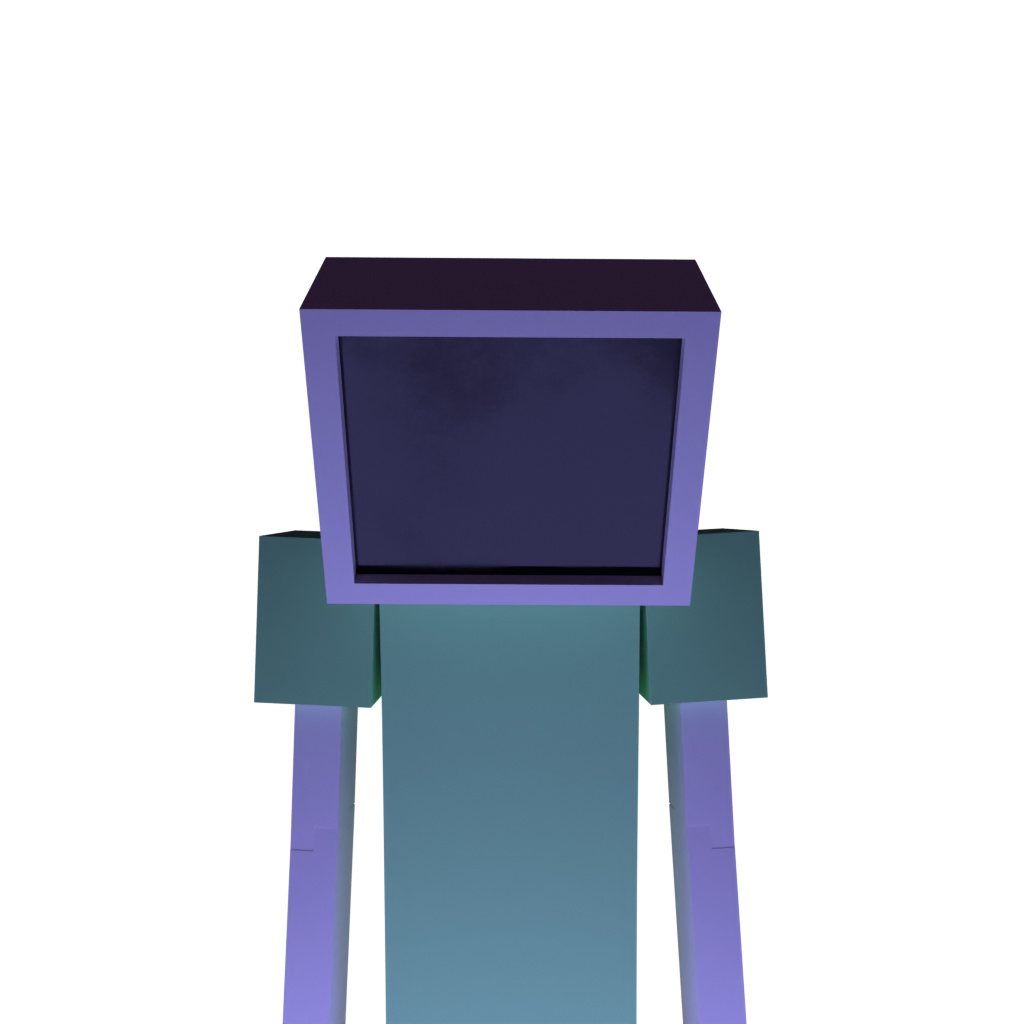
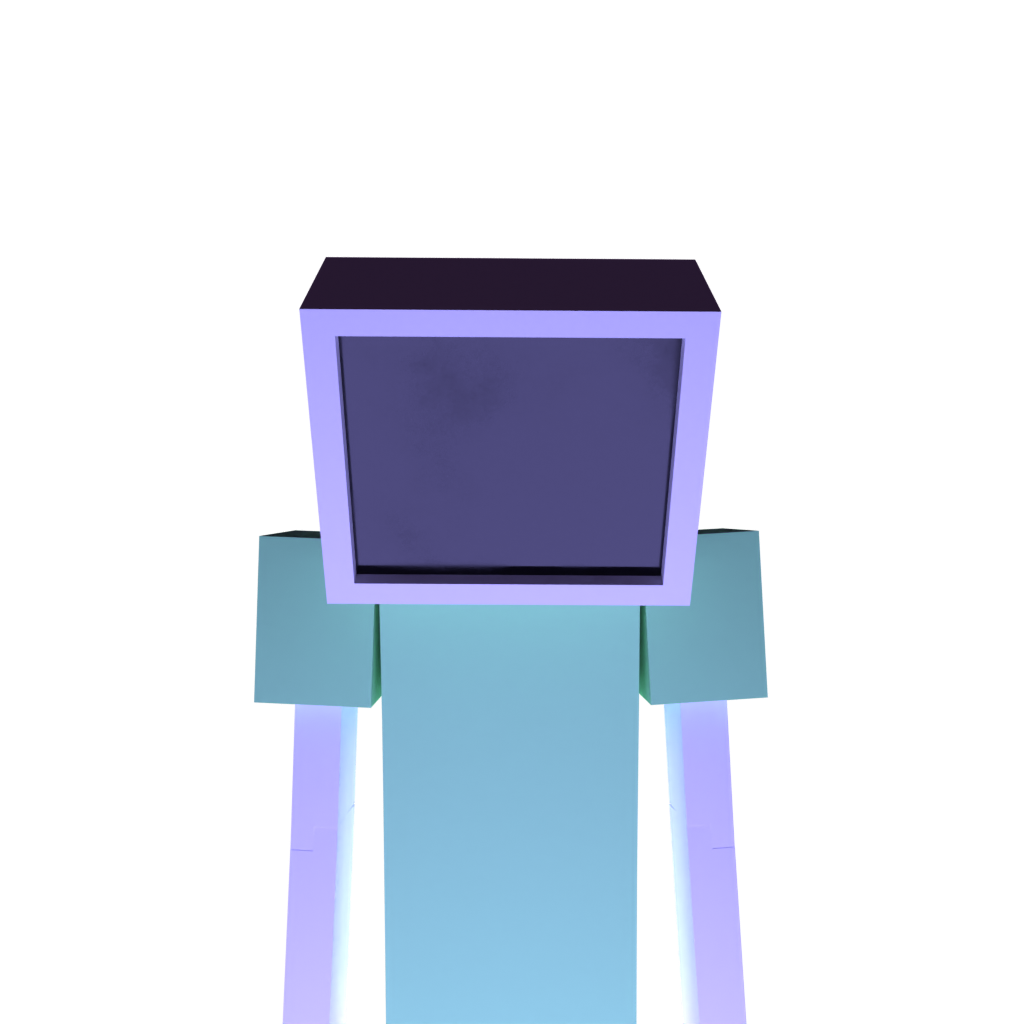
Tweaks on EpicSection Removed some temp images for Gallery

Changed region(s): [[0.25, 0.2812, 0.75, 1.0]]

diff --git a/src/sections/EpicSection.tsx b/src/sections/EpicSection.tsx
@@ -1,19 +1,30 @@
 import imageLit from "@/assets/images/epicSection/lit.png"
 import imageDark from "@/assets/images/epicSection/dark.png"
+
 import imageEyes from "@/assets/images/epicSection/eyes.png"
-import { useEffect, useRef, useState } from "react"
-import { animate } from "animejs"
+import imageEyesDark from "@/assets/images/epicSection/eyesDark.png"
+import { useEffect, useRef, useState, type ReactInstance } from "react"
+import { animate, random, stagger } from "animejs"
 import useClientVisibility from "@/hooks/useClientVisibility"
 
 export default function EpicSection() {
     
     const sectRef = useRef< HTMLDivElement | null >( null )
+
+    const rootImageRef = useRef< HTMLDivElement | null >( null )
+
     const imageLitRef = useRef< HTMLImageElement | null >( null )
     const imageDarkRef = useRef< HTMLImageElement | null >( null )
     const imageEyesRef = useRef< HTMLImageElement | null >( null )
+
+    const intersectRef = useRef< HTMLDivElement | null >( null )
+    const rootMainRef = useRef< HTMLHeadingElement | null >( null )
+    const backTextsRef = useRef< HTMLDivElement | null >( null )
     
     const isVisible = useClientVisibility(imageDarkRef, { threshold : 0.8, rootMargin : "-5% 0px -5% 0px"})
+    const [ isVisibleOnce, setIsVisibleOnce ] = useState< boolean >( false )
     const [ isActivated, setIsActivated ] = useState< boolean >( false )
+    const [ isFinishedTransition, setIsFinishedTransition ] = useState< boolean >( false )
 
     const timersRef = useRef<ReturnType< typeof setTimeout >[] >( [] )
 
@@ -27,10 +38,57 @@ export default function EpicSection() {
     }
 
     useEffect(() => {
-        if (!isActivated || !imageLitRef.current || !imageDarkRef.current || !imageEyesRef.current) return 
+        if (!isActivated || !imageLitRef.current || !imageDarkRef.current || !imageEyesRef.current) return  () => {
+            clearTimers()
+        }
+
         const imageLit = imageLitRef.current
         // const imageDark = imageDarkRef.current
         // const imageEyes = imageEyesRef.current
+
+        const onInterval = () => {
+            const number : number = Number(Math.random().toFixed(1))
+
+            // console.log(number)
+
+            switch ( true ) {
+
+                case number >= 0.8:
+                    animate(imageLit, {
+                        opacity : ["1", "0", "1"],
+                        duration : 700,
+                        ease : "inElastic"
+                    })
+                    break
+                
+                case number >= 0.5:
+                    animate(imageLit, {
+                        opacity : ["1", "0", "1"],
+                        duration : random(400, 800),
+                        ease : "outBounce"
+                    })
+                    break
+                    
+                case number === 0.2:
+                    animate(imageLit, {
+                        opacity : ["1", "0"],
+                        duration : 400,
+                        ease : "outBack"
+                    })
+                    break
+
+                case number === 0.1:
+                    animate(imageLit, {
+                        opacity : ["0", "1", "0"],
+                        duration : random(300, 500),
+                        ease : "outBack(4)"
+                    })
+                    break
+                
+                default:
+                    return
+            }
+        }
         
 
         const onActive = () => {
@@ -51,44 +109,86 @@ export default function EpicSection() {
 
         onActive()
 
+        const interval = setInterval(onInterval, 1000)
+        timersRef.current.push(interval)
+
         return () => {
             onInActive()
+            clearTimers()
         }
-
     }, [ isActivated ])
 
     useEffect(() => {
-        setIsActivated(isVisible)
-    }, [ isVisible ])
+        if ( isVisible ) {
+            setIsVisibleOnce(true)
+        }
+
+        setIsActivated(isVisible && isFinishedTransition)
+    }, [ isVisible, isFinishedTransition ])
+
+    useEffect(() => {
+        if (!isVisibleOnce) return
+        if (!backTextsRef.current || !rootMainRef.current || !rootImageRef.current) return
+
+        animate(rootImageRef.current, {
+            opacity : ["0", "1"],
+            duration : 1200,
+            ease : "outSine"
+        })
+
+        animate(backTextsRef.current.children, {
+            y : (_, index) => [ `-${90 * ( index! + 1 )}%` , "0"],
+            opacity : ["0", "1"],
+            duration : 800,
+            ease : "outCubic",
+            delay : stagger(200)
+        })
+
+        animate(rootMainRef.current, {
+            y : ["50%", "0"],
+            opacity : ["0", "1"],
+            delay : 800 + 200,
+            duration : 800,
+            ease : "outCubic",
+            onComplete : () => {
+                setIsFinishedTransition(true)
+            }
+        })
+
+        return
+    }, [ isVisibleOnce ])
 
     return (
         <section ref={sectRef}>
             <div className="relative max-w-2xl mx-auto">
                 <div className="absolute top-15 md:top-0 left-0 w-full h-1/2 flex items-center justify-center z-[-1] pointer-events-none">
-                    <div className="flex flex-col gap-2">
-                        {Array.from({ length : 3 }).map(( _, index ) => (
-                            <p className="text-8xl md:text-9xl whitespace-nowrap font-black pointer-events-auto text-transparent [-webkit-text-stroke:1px_white] md:[-webkit-text-stroke:2px_white]">
-                                3D Artist
+                    <div ref={backTextsRef} className="flex flex-col gap-2">
+                        {["3D Artist", "Developer", "Video Editor"].map(( item, index ) => (
+                            <p key={index} style={{"opacity" : "0", "transform" : `translateY(-${90 * ( index + 1)}%)`} as React.CSSProperties} className="text-7xl sm:text-8xl md:text-8xl whitespace-nowrap font-black pointer-events-auto text-center text-transparent [-webkit-text-stroke:1px_white] md:[-webkit-text-stroke:2px_white]">
+                                {item}
                             </p>
                         ))}
                     </div>
                 </div>
 
-                <div className="relative w-full aspect-square">
+                <div style={{"opacity" : "0"} as React.CSSProperties} ref={rootImageRef} className="relative w-full aspect-square">
                     <img ref={imageDarkRef} src={imageDark} alt="" className="w-full h-full object-cover" />
 
                     <img ref={imageLitRef} src={imageLit} alt="" style={{"opacity" : "0"} as React.CSSProperties} className="absolute top-0 left-0 w-full h-full z-10 object-cover" />
 
                     <img ref={imageEyesRef} src={imageEyes} alt="" className="absolute top-0 left-0 w-full h-full z-20 animate-pulse object-cover" />
+
+                    <img src={imageEyesDark} alt="" className="absolute top-0 left-0 w-full h-full z-10" />
+
+                    <div ref={intersectRef} className="absolute top-1/2 left-0 w-full h-[15px] z-40" />
                 </div>
 
-                <div className="absolute bottom-0 left-0 w-full h-full pointer-events-none flex items-end z-30 p-8">
-                    <div className="flex flex-col items-center justify-center w-full h-1/2 pointer-events-auto">
-                        <p className="text-8xl sm:text-9xl font-black">
-                            Blender
-                        </p>
-                    </div>
+                <div ref={rootMainRef} style={{"opacity" : "0", "transform" : "translateY(50%)"} as React.CSSProperties} className="absolute bottom-0 left-0 z-40 flex flex-col items-center justify-center gap-3 w-full h-1/2 pointer-events-auto">
+                    <p className="text-8xl sm:text-9xl font-black text-center">
+                        Zyl
+                    </p>
                 </div>
+
 
                 <div className="absolute bottom-0 left-0 w-full h-1/3 bg-linear-0 from-root-bg to-none z-20" />
             </div>

diff --git a/src/sections/GambleSection.tsx b/src/sections/GambleSection.tsx
@@ -1,4 +1,4 @@
-import { useEffect, useRef, useState } from "react"
+import { useEffect, useRef, useState, type ReactNode } from "react"
 
 export default function GambleSection() {
 	const amount : number = 10
@@ -79,4 +79,74 @@ function Card({ key, index, className, style } : cardProps) {
 			Card {index}
 		</div>
 	)
+}
+interface InfiniteCarouselProps {
+    items: ReactNode[];
+    cardWidth: number;
+    gap?: number;
+}
+
+export function InfiniteCarousel({ items, cardWidth, gap = 16 }: InfiniteCarouselProps) {
+    const amount = items.length;
+    const [currentIndex, setCurrentIndex] = useState(0);
+    const cardsRef = useRef<HTMLDivElement>(null);
+
+    const goTo = (index: number) => {
+        // keep currentIndex normalized so it never grows unbounded
+        setCurrentIndex(((index % amount) + amount) % amount);
+    };
+
+    const next = () => goTo(currentIndex + 1);
+    const prev = () => goTo(currentIndex - 1);
+
+    return (
+        <div className="relative w-full h-full">
+            <div
+                ref={cardsRef}
+                className="relative w-full h-full overflow-hidden"
+            >
+                {items.map((item, index) => {
+                    // distance of this card from the active one, wrapped to the
+                    // shortest signed path so far-left cards jump to the right
+                    // side (and vice versa) instead of trailing off-screen
+                    let rel = (index - currentIndex + amount) % amount;
+                    if (rel > amount / 2) rel -= amount;
+
+                    const x = rel * (cardWidth + gap);
+
+                    return (
+                        <div
+                            key={index}
+                            style={
+                                {
+                                    "--x": `${x}px`,
+                                    width: cardWidth,
+                                } as React.CSSProperties
+                            }
+                            className="absolute top-0 left-0 h-full translate-x-(--x) transition-transform duration-500 ease-out"
+                        >
+                            {item}
+                        </div>
+                    );
+                })}
+            </div>
+
+            <button
+                type="button"
+                onClick={prev}
+                className="absolute left-2 top-1/2 -translate-y-1/2 rounded-full bg-black/60 text-white w-9 h-9 flex items-center justify-center"
+                aria-label="Previous"
+            >
+                ‹
+            </button>
+            <button
+                type="button"
+                onClick={next}
+                className="absolute right-2 top-1/2 -translate-y-1/2 rounded-full bg-black/60 text-white w-9 h-9 flex items-center justify-center"
+                aria-label="Next"
+            >
+                ›
+            </button>
+        </div>
+    );
 }

diff --git a/src/sections/ProjectSection.tsx b/src/sections/ProjectSection.tsx
@@ -87,7 +87,7 @@ export default function ProjectSection({ projectData = projectList } : projectSe
 	const cardRefs = useRef< HTMLDivElement[]>( [] )
 	const cardModeRefs = useRef< (projectCardMode | null)[] >( [] )
 
-	console.log(cardModeRefs)
+	// console.log(cardModeRefs)
 
 	const onComplete = () => {
 		if (!cardModeRefs.current) return
@@ -184,7 +184,7 @@ export function ProjectCard({ name, summary, url, image, video, mode, isActivate
 
 	useEffect(() => {
 		setIsActivated(isActivatedManually ? isActivatedManuallyValue : isVisible)
-		console.log(isActivated, isVisible)
+		// console.log(isActivated, isVisible)
 	}, [ isActivatedManually, isActivatedManuallyValue, isVisible ])
 
 	useEffect(() => {

diff --git a/src/App.tsx b/src/App.tsx
@@ -10,6 +10,7 @@ import ProjectSection from "@/sections/ProjectSection"
 import GallerySection from "@/sections/GallerySection"
 import GambleSection from "@/sections/GambleSection"
 import EpicSection from "./sections/EpicSection"
+import { InfiniteCarousel } from "@/sections/GambleSection"
 
 // components
 import AppHeader from "@/components/main/AppHeader"
